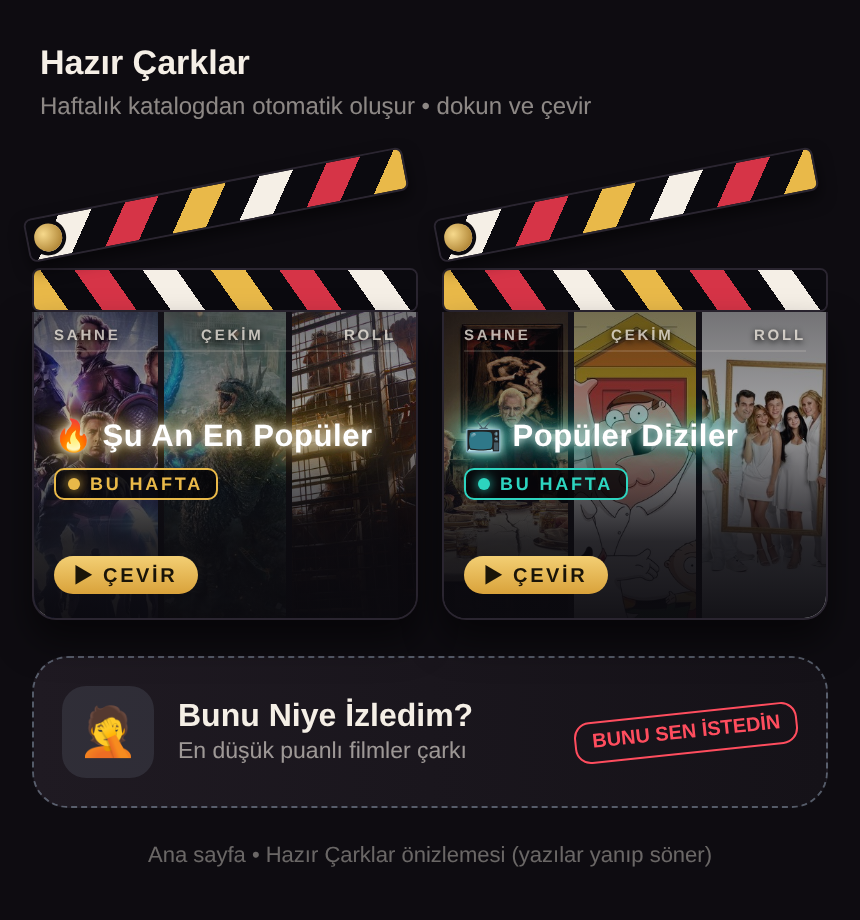
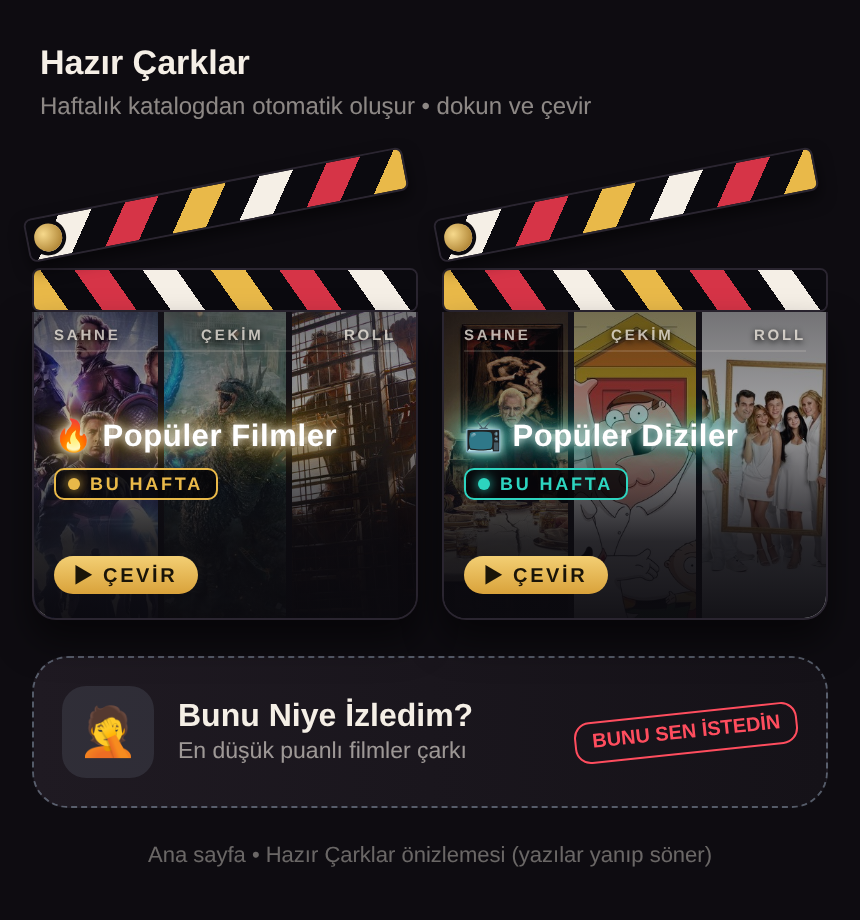
Hazır çarklar önizlemesi: Popüler Filmler / Popüler Diziler adları
Claude-Session: https://claude.ai/code/session_01Q1LBDkMis9fZfSetxmGZms

Changed region(s): [[0.1209, 0.4565, 0.4535, 0.5174]]

diff --git a/branding/hazir-carklar-anasayfa.html b/branding/hazir-carklar-anasayfa.html
@@ -57,7 +57,7 @@ h2{font-size:17px;font-weight:900;margin:0 4px 4px} .sub{font-size:12px;color:rg
   <div class="slate">
     <div class="bgp"><img src="p/bd_7RyHsO4yDXtBv1zUU3mTpHeQ0d5.jpg"><img src="p/bd_oHBhHoNe59VH6bUMazDtJmWOFSS.jpg"><img src="p/bd_o3XwuDUj0n8qnK91p6q8LKfr6rj.jpg"></div><div class="bgshade"></div>
     <div class="rowh"><span>SAHNE</span><span>ÇEKİM</span><span>ROLL</span></div>
-    <div class="neon on">🔥 Şu An En Popüler</div>
+    <div class="neon on">🔥 Popüler Filmler</div>
     <div class="live on"><i></i>BU HAFTA</div>
     <div class="go">▶ ÇEVİR</div>
   </div>
